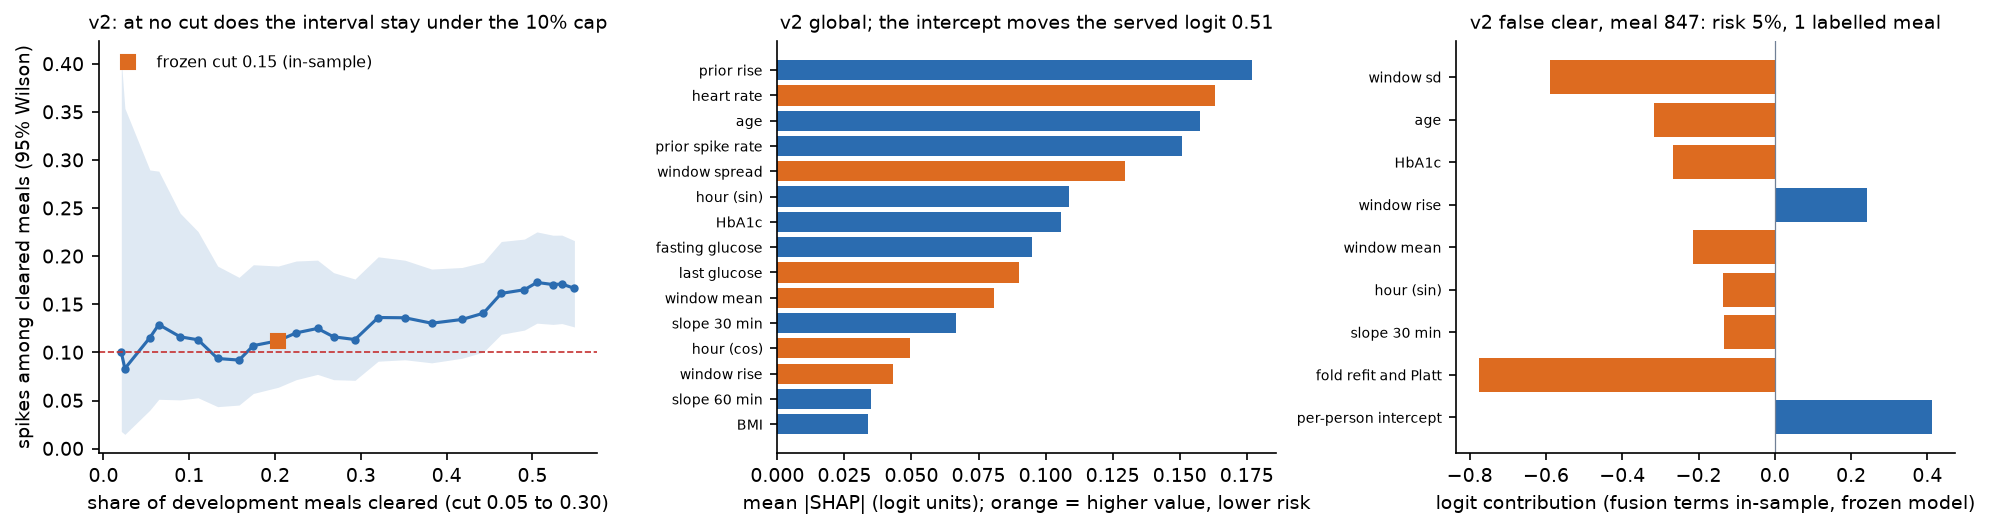
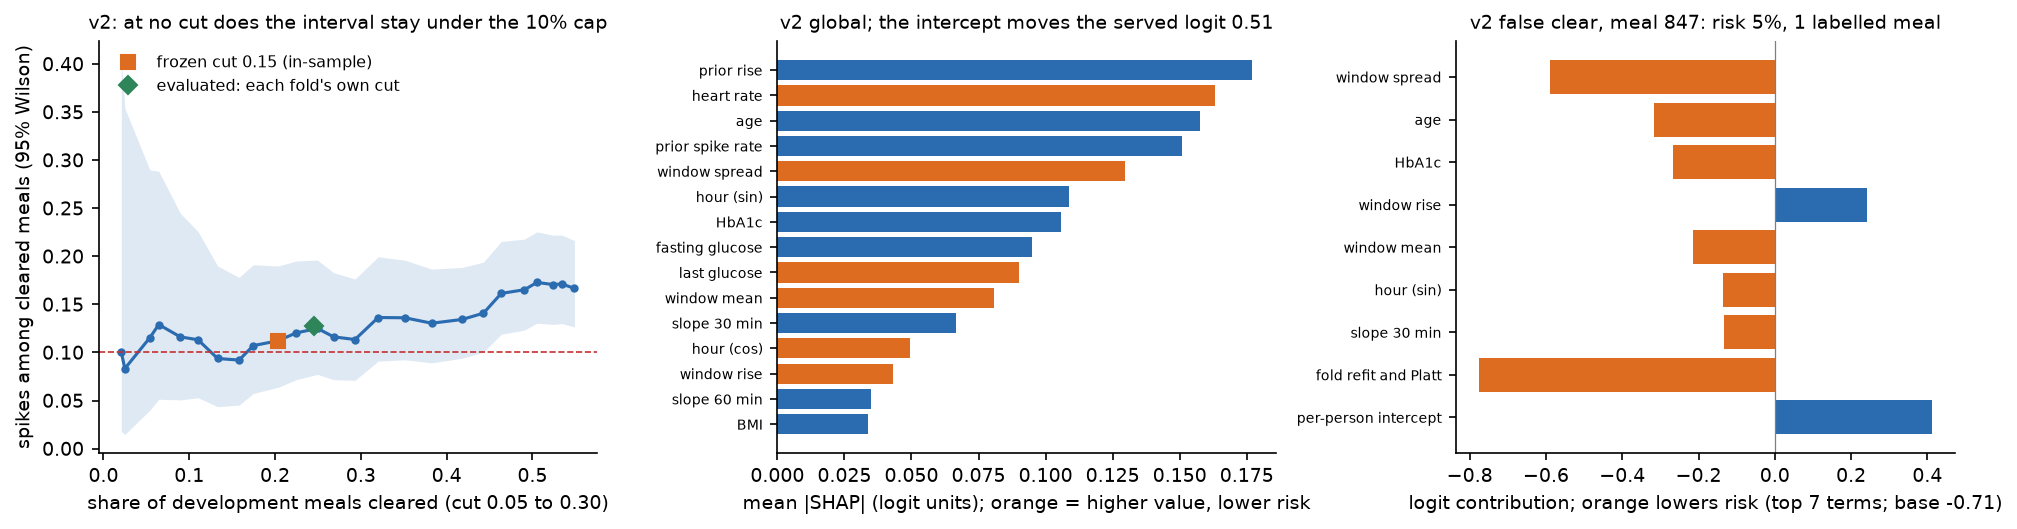
Twelfth pass: last-third misses reported, ECE against the floor, recommendation and heart-rate claims narrowed, figures renumbered
Claude-Session: https://claude.ai/code/session_01U1MwL7j11MLBZ4KUvxGUHV

diff --git a/src/glimpse/figures.py b/src/glimpse/figures.py
@@ -297,6 +297,9 @@ def f8_v2(plt) -> None:
     fb = r["frozen_band_in_sample"]
     axes[0].plot([fb["cleared"] / 481], [fb["missed_among_cleared"]], "s", color=ORANGE, ms=7,
                  label="frozen cut 0.15 (in-sample)")  # fmt: skip
+    ev = json.loads(Path("outputs/report_metrics/v2_metrics.json").read_text())["decisions"]
+    axes[0].plot([ev["share_low_risk"]], [ev["missed_among_cleared"]], "D", color=GREEN, ms=6,
+                 label="evaluated: each fold's own cut")  # fmt: skip
     axes[0].set_xlabel("share of development meals cleared (cut 0.05 to 0.30)")
     axes[0].set_ylabel("spikes among cleared meals (95% Wilson)")
     axes[0].set_title("v2: at no cut does the interval stay under the 10% cap", fontsize=9)
@@ -314,12 +317,13 @@ def f8_v2(plt) -> None:
                       fontsize=9)  # fmt: skip
     loc = sh["local"]
     terms = sorted(loc["terms"].items(), key=lambda kv: -abs(kv[1]))[:7]
-    labels = [k for k, _ in terms] + ["fold refit and Platt", "per-person intercept"]
+    labels = [k.replace("window sd", "window spread") for k, _ in terms] + ["fold refit and Platt",
+                                                                           "per-person intercept"]  # fmt: skip
     vs = [v for _, v in terms] + [loc["fold_platt_logit"] - loc["frozen_logit"], loc["intercept_shift"]]
     axes[2].barh(np.arange(len(vs))[::-1], vs, color=[BLUE if v > 0 else ORANGE for v in vs])
     axes[2].set_yticks(np.arange(len(vs))[::-1], labels, fontsize=6.8)
     axes[2].axvline(0, color=GREY, lw=0.6)
-    axes[2].set_xlabel("logit contribution (fusion terms in-sample, frozen model)")
+    axes[2].set_xlabel(f"logit contribution; orange lowers risk (top 7 terms; base {sh['base_logit']:.2f})")
     axes[2].set_title(f"v2 false clear, meal {loc['row']}: risk {loc['risk']:.0%}, {loc['n_history']} labelled meal",
                       fontsize=9)  # fmt: skip
     fig.tight_layout()

diff --git a/tests/test_report_numbers.py b/tests/test_report_numbers.py
@@ -452,7 +452,11 @@ def test_v2_cells_in_the_report():
     c = _load("outputs/v2_explain/v2_explain.json")["calibration"]
     lo, hi = c["observed_ci95_biased_upward"]
     assert abs(c["observed"] - v2["shipped"]["ece_equal_width_15"]) < 1e-12
-    assert t["ECE, registered 15 bins (target ≤ 0.05)"][2] == f"{c['observed']:.3f} ({lo:.3f}–{hi:.3f}): {c['verdict']}"
+    assert lo > c["observed"] and hi > 0.05 and c["verdict"] == "on track"  # the bootstrap is biased upward
+    assert t["ECE, registered 15 bins (target ≤ 0.05)"][2] == (
+        f"{c['observed']:.3f}, below a perfect model's median {c['perfectly_calibrated_median']:.3f}: {c['verdict']}"
+    )
+    assert c["share_of_perfectly_calibrated_draws_at_or_above_observed"] > 0.98  # "lower than 99% of draws"
     d = v2["decisions"]
     assert t["spikes among cleared meals (cap 10%)"][2] == (
         f"{_pc(d['missed_among_cleared'])} ({_iv(d['missed_ci']['ci95'], pct=True)})"
@@ -593,6 +597,11 @@ def test_v2_explain_cells():
     assert f"moves the served logit by {r['shap']['split']['mean_abs_intercept_shift']:.2f}" in text
     tp = r["temporal"]["last_third"]
     assert f"last third of meals {tp['auroc']:.3f} ({tp['ci95'][0]:.3f}–{tp['ci95'][1]:.3f})" in text
+    f2 = r["temporal"]["first_two_thirds"]
+    assert (
+        f"rise from {_pc(f2['missed_among_cleared'])} (7 of {f2['cleared']}) to {_pc(tp['missed_among_cleared'])} (8 of"
+        in text
+    )
     cv = r["carb_value"]
     assert t["the carb estimate's own value, 817 out-of-fold photos: MAE; carb range right"][0] == (
         f"{cv['mae_photo_g']:.1f} g against {cv['mae_median_g']:.1f} g for typing the training median; "

diff --git a/docs/final_report.md b/docs/final_report.md
@@ -10,8 +10,8 @@ the usefulness targets are not met. The photo failed its pre-registered gate, wh
 said the answer should rest on sensors and profile with the photo only as a carb aid. v2 is that product,
 pre-registered and built on 26 Nov, the day after v1's locked result was known, and now served: risk from
 15 sensor and profile inputs, with the photo as a separate carb estimate that never blocks an answer. On
-development v2 answers every meal with usable glucose data and its ECE point (0.029) meets the target,
-though the interval (0.03 to 0.09) cannot confirm it. It is not shown to be as accurate as v1 (paired
+development v2 answers every meal with usable glucose data and its ECE (0.029) meets the target, though at
+this size that cannot be told apart from noise; v1 remains the more accurate model. It is not shown to be as accurate as v1 (paired
 −0.017, −0.045 to +0.010) and lets more spikes through its clears (12.7%), worst for the intended users:
 6 of 30 clears for people with prediabetes spiked, against 1 of 25 in v1. In both, a per-person intercept
 learned from earlier meals carries most of the edge; it separates people well but ranks a person's own
@@ -21,8 +21,8 @@ meals worse. v2 has no clean test: the locked eight are spent on v1.
 |---|---|---|---|
 | AUROC (95% person-clustered) | 0.762 (0.682–0.829) | 0.645 (0.540–0.736) | 0.754 (0.673–0.815); 0.748 on v1's 460 |
 | meals answered with a risk | 460 | 150 | 481 |
-| ECE, registered 15 bins (target ≤ 0.05) | 0.052, at the noise floor | 0.061 | 0.029 (0.032–0.091): on track |
-| usefulness targets (protocol labels: met / on track / at risk) | 1 met, 3 on track | 1 met, 3 at risk | 1 met, 2 on track, 1 at risk (spikes among cleared) |
+| ECE, registered 15 bins (target ≤ 0.05) | 0.052, at the noise floor | 0.061 | 0.029, below a perfect model's median 0.051: on track |
+| usefulness targets (protocol labels: met / on track / at risk) | 1 met, 3 on track | 1 met, 3 not met (final test) | 1 met, 2 on track, 1 at risk (spikes among cleared) |
 | spikes among cleared meals (cap 10%) | 7.3% (2.9–14.2%) | 2 of 10 | 12.7% (5.9–22.6%) |
 | the same, people with prediabetes | 1 of 25 | not split | 6 of 30 |
 | the samples' path (no history, no priors), with rule R13 | – | – | 0 cleared; cost −5.3% |
@@ -45,7 +45,7 @@ with neither history nor priors there is no personal basis to clear a meal, so a
 samples without `history.csv` sees caution or can't judge, never low risk. Tooling: uv with Python 3.14
 (locked), strict Pydantic, Loguru, a `just` recipe for every number, 187 tests (all pass with the data and
 weights, one an expected failure; 171 run without them; logs in outputs/finalize/), W&B offline runs replayed from committed training histories, and a git history from 2 Nov in
-which every pre-registration precedes its run.
+which every registration commit precedes its results commit.
 
 ![Figure 1: the one scoring path, its refusal exits and the labelling loop](../outputs/figures/f1_system.png)
 
@@ -76,7 +76,7 @@ has eight inputs: age, BMI, HbA1c, fasting glucose, meal hour (sine and cosine) 
 each person's spike rate and mean rise over their first meals. Seven hand-made trend features summarise
 the 2-h CGM and heart-rate window. SensorCNN, the from-scratch sequence model, ties the trend features
 (+0.002, −0.016 to +0.022) and stays a baseline. Fusion is logistic regression, the capacity 23
-development people support; gradient boosting on the same inputs is no better (non-inferior, +0.016,
+development people support; gradient boosting on the same inputs is not shown better (+0.016,
 −0.024 to +0.062, fusion study without the intercept). In v2 the served risk uses two modalities, sensors
 and profile; the photo is a third, separate output, the carb estimate the user confirms.
 
@@ -125,7 +125,9 @@ One caveat: fold 1 holds the five people the intermediate evaluation scored, and
 designed after a diagnosis on them, so development carries selection pressure the locked eight do not.
 v2 adds more: it was chosen after v1's locked result, and its development number is optimistic in the same
 way v1's was (0.762 on development, 0.645 locked). Two checks: without fold 1 v2 scores 0.749; on each
-person's last third of meals 0.774 (0.681–0.841), against 0.740 on the first two thirds.
+person's last third of meals 0.774 (0.681–0.841), against 0.740 on the first two thirds. More history does
+not make clears safer: spikes among cleared meals rise from 9.6% (7 of 73) to 17.8% (8 of 45) in the last
+third, and only 3 of v2's 15 false clears are cold starts.
 
 Postprandial response is person-specific (Zeevi et al. 2015; Berry et al. 2020). The calibration fix is a
 per-fold Platt map plus a penalised per-person intercept fitted only on that person's earlier meals whose
@@ -165,22 +167,24 @@ the intercept's own: with it, gradient boosting comes within 0.013 of v1, and th
 v2. It works between people, not within them. Averaged per person, AUROC falls by about 0.08 in both
 products (19 of 22 people worse in v1, 20 of 22 in v2), because the offset drifts as each new label arrives. The system
 learns each person's base rate, 0.063 better than a plain running spike rate. Removing the CGM costs
-0.033 with an interval above zero (exploratory, post hoc); removing the profile costs 0.122 (Figure 4).
+0.033 with an interval above zero (exploratory, post hoc); removing the profile costs 0.122 (Figure 6).
 
 ![Figure 3: reliability in the registered binning, v1 development, v1 locked and v2 development (15 equal-width bins, meals per bin printed, hollow markers for bins under 5 meals, bars the 95% Wilson interval of each shipped bin)](../outputs/figures/f3_reliability.png)
 
 | calibration | v1 dev | v1 locked | v2 dev | without history: v1 dev / v1 locked / v2 dev (per-fold Platt) |
 |---|---|---|---|---|
-| ECE, registered 15 equal-width bins (target ≤ 0.05) | 0.052 | 0.061 | 0.029 (0.032–0.091) | 0.023 / 0.162 / 0.052 |
+| ECE, registered 15 equal-width bins (target ≤ 0.05) | 0.052 | 0.061 | 0.029 | 0.023 / 0.162 / 0.052 |
 | ECE a perfectly calibrated model shows at this size (median; 95th centile) | 0.052 | 0.094 | 0.051; 0.071 | – |
 | calibration-in-the-large (mean risk − spike rate) | −0.015 | −0.010 | −0.015 | +0.002 / −0.108 / −0.001 |
 
 *Floor: labels drawn as Bernoulli(risk), 2,000 draws; ECE intervals are person-bootstrap and biased upward. v2's equal-mass ECE is 0.076. report_metrics.json, v2_metrics.json, outputs/v2_explain/v2_explain.json (calibration).*
 
-At this sample size the ECE target cannot separate either product from a perfectly calibrated model: v2's
-0.029 sits below the median a perfect model would show, its interval reaches 0.091, and equal-mass bins
-give 0.076. By the protocol's rule (met only if the whole interval meets the target) v2 is on track, not
-met. Figure 3's v2 panel shows no bin outside its Wilson interval. Without history, v1's risk under-predicts
+At this sample size the ECE target cannot separate either product from a perfectly calibrated model. v2's
+0.029 is lower than 99% of draws from a perfect model of this size (median 0.051), an unusually smooth fit,
+likely because each fold's Platt map and the intercepts were fitted on overlapping development meals; its
+person-bootstrap interval (biased upward) runs 0.03 to 0.09, and equal-mass bins give 0.076. By the
+protocol's rule (met only if the whole interval meets the target) v2 is on track, not met. In Figure 3's
+v2 panel every bin's 95% Wilson interval contains its mean risk. Without history, v1's risk under-predicts
 the harder locked cohort by 11 points, the clearest calibration failure. Discrimination is even across
 glycaemic status; usefulness is not (table).
 
@@ -203,7 +207,7 @@ only near the declared prices.
 | cleared as low risk | ≥20% | 22.7% (13.2–34.0%) | 6.5% (0.6–15.9%) | 24.5% (13.5–37.5%) | 11.0% |
 | can't judge | ≤20% | 13.7% (8.7–19.2%) | 2.6% (0.6–5.0%) | 8.3% (2.5–15.2%) | 18.5% |
 | missed among cleared | ≤10% | 7.3% (2.9–14.2%) | 20% (2 of 10; exact 2.5–55.6%) | 12.7% (5.9–22.6%), 15 of 118 | 15.1% (8 of 53) |
-| verdict (met / on track / at risk) | – | 1 met, 3 on track | 1 met, 3 at risk | 1 met, 2 on track, 1 at risk | 3 of 4 at risk |
+| verdict (met / on track / at risk) | – | 1 met, 3 on track | 1 met, 3 not met (final test) | 1 met, 2 on track, 1 at risk | 3 of 4 at risk |
 
 *v1's served point (no history) clears 15.2% with 9.6% spiking on development and 21.9% on the locked eight (report_metrics.json served_operating_point). report_metrics.json, v2_metrics.json (decisions, served_no_history), outputs/locked_eval/locked_summary.json.*
 
@@ -219,16 +223,16 @@ R13 refers those meals instead: no misses, 21% referred, 5.3% more costly than a
 
 v2 is served on the strength of the gate's pre-written verdict and a registration that said it ships
 whatever the development result; there was no safety gate, and on the numbers it is the riskier product.
-No low-risk cut keeps the interval on its misses under 10% (Figure 8, left); the point dips under 10% only
+No low-risk cut keeps the interval on its misses under 10% (Figure 4, left); the point dips under 10% only
 when fewer than 16% of meals are cleared. Its 15 false clears (§5) sit on 8 people, 6 on people with
 prediabetes. A what-if that withholds clears for a prediabetic profile until 20 labelled meals (post hoc,
 not shipped) cuts their misses from 6 to 2 and their clears from 30 to 3, with the overall saving at
 10.4%; withholding them always gives 10.2% misses and a 12.1% saving. Either rule would need its own
 registration and a test before serving.
 
-![Figure 8: v2 on development: spikes among cleared meals as the low-risk cut moves, with the frozen cut in-sample; exact linear SHAP of the frozen v2 fusion; one false clear split into fusion terms, the fold refit and Platt, and the per-person intercept](../outputs/figures/f8_v2.png)
+![Figure 4: v2 on development: spikes among cleared meals as the low-risk cut moves, with the frozen cut in-sample; exact linear SHAP of the frozen v2 fusion; one false clear split into fusion terms, the fold refit and Platt, and the per-person intercept](../outputs/figures/f8_v2.png)
 
-![Figure 7: v1 coverage, misses and cost when abstaining on the meals closest to the low-risk cut (development at each fold's cut, locked at 0.15), descriptive](../outputs/figures/f7_coverage.png)
+![Figure 5: v1 coverage, misses and cost when abstaining on the meals closest to the low-risk cut (development at each fold's cut, locked at 0.15), descriptive](../outputs/figures/f7_coverage.png)
 
 | stress at the evaluated operating point (with history) | v2: AUROC, spikes among cleared | v2: caution → low risk | v1: AUROC | v1: caution → low risk |
 |---|---|---|---|---|
@@ -243,9 +247,9 @@ registration and a test before serving.
 | photo blur radius 2 / 6 / 10 | 0.754, unchanged: the photo is not a risk input | 0 | 0.776 / 0.775 / 0.766 (co-answered clean 0.774) | 0 / 3 / 6 |
 | photo brightness ×0.5 / 0.25 / 0.2 / 0.15 | unchanged | 0 | within 0.002 on the meals still answered: 460 / 453 / 418 / 228 (×0.1: 3 answered) | 1 / 1 / 0 / 0 |
 
-*Registered in docs/stress_quality.md and (heart rate, priors, history) docs/v2_explain.md before their runs; every development meal, clean and perturbed, history from the clean answers. v1's photo stress compares the frozen photo model with itself (in-sample photos). outputs/robustness/stress_quality.json and v2_input_stress.json; the 22 Nov three-level study (Figure 5) is in the appendix.*
+*Registered in docs/stress_quality.md and (heart rate, priors, history) docs/v2_explain.md before their runs; every development meal, clean and perturbed, history from the clean answers. v1's photo stress compares the frozen photo model with itself (in-sample photos). outputs/robustness/stress_quality.json and v2_input_stress.json; the 22 Nov three-level study (Figure A1) is in the appendix.*
 
-![Figure 4: effect sizes with 95% person-clustered intervals; removals against the fusion study's photo arm (0.719); green rows: the intercept (evaluation) and the CGM contrast](../outputs/figures/f4_effects.png)
+![Figure 6: effect sizes with 95% person-clustered intervals; removals against the fusion study's photo arm (0.719); green rows: the intercept (evaluation) and the CGM contrast](../outputs/figures/f4_effects.png)
 
 Quality holds until a rule refuses. CGM dropout up to 50% moves AUROC by at most 0.001 in either product,
 and at 70% only the meals left with too few recent readings are refused (20 in v2). Gaps change nothing up
@@ -253,8 +257,9 @@ to 18 minutes and refuse every meal from 20, the rule's threshold, so the curve 
 photo cannot move v2's risk. In v1, heavy blur lets 6 cautions become low risk and lifts the spike rate
 among clears from 8% to 11%, and darkness ends in refusals by the contrast rule. v2's own weak points are
 its personal inputs. A watch left off (heart rate missing) is the largest dangerous flip in any condition,
-17 cautions turned low risk, though not on average lower risk as we expected; the folder answer is flagged
-`hr_missing`. Wrong history labels hurt most: a quarter flipped costs 0.055 AUROC, more than cutting the
+17 cautions turned low risk, though not on average lower risk as we expected, and with misses among clears
+falling to 11.6% and the saving rising to 12.8%, so heart rate's value to v2 is unproven; the folder answer
+is flagged `hr_missing`. Wrong history labels hurt most: a quarter flipped costs 0.055 AUROC, more than cutting the
 history to three meals.
 
 | unfamiliar-photo check at the 0.614 cut | photos | median kNN distance | flagged |
@@ -307,18 +312,19 @@ Every class below was observed.
 Probe B was registered as an expected pass (a rising pre-meal trace raises risk on at least 90% of meals)
 and failed: risk rose on only 8%. The label is baseline-relative, so a meal eaten on a rising trace has a
 higher baseline and a smaller measured rise; our registration encoded naive physiology. Exact SHAP for the
-frozen v1 fusion (Figure 6) ranks prior rise first, then age, heart rate and prior spike rate. Attribution
+frozen v1 fusion (Figure 7) ranks prior rise first, then age, heart rate and prior spike rate. Attribution
 and ablation disagree for heart rate (−0.21 coefficient, +0.007 when removed): attribution measures
-in-sample use, ablation out-of-sample loss. In v2 (Figure 8) the same four lead, and the sign has a
+in-sample use, ablation out-of-sample loss. In v2 (Figure 4) the same four lead, and the sign has a
 reading: within a person, a higher heart rate than usual before a meal goes with fewer spikes (−0.51,
 −0.88 to −0.25, person fixed effects), while between people mean heart rate and spike rate are unrelated
-(Spearman 0.00), so it is not a fitness confound; recent activity is the likely cause. The per-person
+(Spearman 0.00), so fitness is an unlikely explanation; the cause is untested (recent activity is one
+candidate). The per-person
 intercept moves the served logit by 0.51 on average, against 0.64 for the whole fusion. Probes A and C move one input at a time through a linear
 fusion, so their direction is guaranteed; what they show is size. The most extreme photo swap leaves 68.5%
-of v1's decisions unchanged, and moving any one profile input from its 10th to 90th percentile changes
+of v1's decisions unchanged, and moving any one of HbA1c, fasting glucose or the two priors from its 10th to 90th percentile changes
 11–17% of decisions.
 
-![Figure 6: exact linear SHAP for the frozen v1 fusion, in-sample; the local panel is row 847, a confident false clear, raw fusion risk](../outputs/figures/f6_shap.png)
+![Figure 7: exact linear SHAP for the frozen v1 fusion, in-sample; the local panel is row 847, a confident false clear, raw fusion risk](../outputs/figures/f6_shap.png)
 
 The errors fall on different people. A false clear, the costliest error, tells someone a spiking meal is
 safe; 7 of v1's 8 development false clears fell on healthy people, while people with prediabetes, the
@@ -347,7 +353,7 @@ under the final code with the pinned weights and data; every v1 decision matched
 so. The author set the goals and approved each pre-registration, freeze and verdict up to the tag. After
 it, cold grades by AI agents led to the dated round in docs/changelog.md, including v2, which she chose
 on 26 Nov knowing the locked result; the assistant wrote that round's registrations under her
-instruction, and the changelog lists each one with her sign-off.
+instruction, and the changelog lists each one; her dated sign-off on them is the changelog's last entry.
 No v1 artifact or locked number changed.
 
 ## 7. Limitations and conclusion
@@ -356,10 +362,10 @@ data. Forty-five people from one study, repeated standardised meals, no local cu
 only train, so no claim is made for them. v2 is the product the pre-registration points to and answers
 more meals; v1 is more accurate on development by a margin the data cannot confirm, misses fewer spikes,
 and is the only one with a clean test, which failed the usefulness targets. Our recommendation for any
-use: let v2 flag and refer from the first meal, but give a low-risk answer only once a person has
-history, and for people with prediabetes only after a rule like §4's what-if has been registered and
-tested. Heart rate earns its place by its within-person sign, not its ablation; a next version should
-test it with more people. This is an advisory prototype with no clinical validation,
+use: let v2 flag and refer, and withhold low-risk answers for people with prediabetes until a rule like
+§4's what-if has been registered and tested on new people; history alone does not make clears safer (§3).
+The served configuration does not do this: it is the frozen v2 as registered. Heart rate has a consistent
+within-person sign but no proven value; a next version should test it with more people. This is an advisory prototype with no clinical validation,
 end-user test or regulatory review, built so that a clinical study could evaluate it.
 
 | Glossary | meaning |

diff --git a/README.md b/README.md
@@ -94,7 +94,7 @@ only, and they carry disclosed selection pressure (fold 1 was scored at the inte
 after the locked result). "v2" in `outputs/evaluation_v2/` and "partition v2" name the split, not the product:
 that folder is v1; product v2 lives in `outputs/evaluation_sensor_first/`.
 
-| Risk model | **locked test (8 people, 153 meals)** | development (23 people; v1 460, v2 481 meals) |
+| Risk model | **locked test (8 people, 153 meals; 150 with a risk)** | development (23 people; v1 460, v2 481 meals) |
 |---|---|---|
 | v1 raw fusion | 0.611 (0.510–0.743) | 0.726 (0.659–0.797) |
 | **v1 + per-person calibration (locked-tested)** | **0.645 (0.540–0.736)** | 0.762 (0.682–0.829) |
@@ -113,7 +113,7 @@ that folder is v1; product v2 lives in `outputs/evaluation_sensor_first/`.
   estimate as 4 of its 19 inputs; v2, built on 26 Nov to the gate's pre-written verdict, uses it only as a carb estimate.
 - v2 is not shown non-inferior to v1 (−0.017, −0.045 to +0.010) and lets 12.7% of its clears spike (6 of 30 for people
   with prediabetes, against 1 of 25 in v1).
-- Usefulness targets hold at the point on development (23% cleared, 14% cost saving, 7.3% missed vs a 10% cap) and FAIL on
+- v1: usefulness targets hold at the point on development (23% cleared, 14% cost saving, 7.3% missed vs a 10% cap) and FAIL on
   the locked test (10 of 153 cleared, 2 spiked, cost reduction −5.7%), reported unadjusted, per the pre-registration.
 - The 8 locked people were scored exactly once, on 25 Nov, from the frozen artifacts (`just evaluate-locked` refuses a rerun).
 - Monitoring: the photo-drift rule fires on the drifted (synthetic) week of a simulated stream, but real phone
@@ -167,11 +167,11 @@ version of this table is kept at `docs/archive/readme_promised_intermediate.md`.
 | §3 results table, fold cut-offs, Figures 2-3 | `just evaluate` (`evaluate-locked` once) | `outputs/evaluation_v2/`, `outputs/locked_eval/`, `outputs/report_metrics/` |
 | §4 cost sweep, usefulness targets | `just evaluate` | `outputs/evaluation_v2/dev_summary.json`, `outputs/report_metrics/` |
 | §1 end-to-end timing, int8 | `just end-to-end-timing`, `just photo-probes` | `outputs/efficiency/end_to_end.json`, `int8.json` |
-| §3-§5 v2 calibration, taxonomy, SHAP, Figures 3 and 8 | `just v2-explain` (inside `just evaluate`) | `outputs/v2_explain/` |
+| §3-§5 v2 calibration, taxonomy, SHAP, Figures 3 and 4 | `just v2-explain` (inside `just evaluate`) | `outputs/v2_explain/` |
 | §4 stress table | `just stress-quality`, `just v2-input-stress` | `outputs/robustness/stress_quality.json`, `v2_input_stress.json` |
-| appendix stress levels, Figure 5 | `just robustness-levels`, `just timing`, `just promised` | `outputs/robustness/`, `outputs/promised/` |
+| appendix stress levels, Figure A1 | `just robustness-levels`, `just timing`, `just promised` | `outputs/robustness/`, `outputs/promised/` |
 | §4 monitoring | `just monitoring`, `just monitoring-replay` | `outputs/monitoring/` |
-| §5 taxonomy, probes, Figure 6 | `just predict-folder`, `just stress`, `just probes`, `just ood`, `just figures` | `outputs/folder_run/`, `outputs/stress_run/`, `outputs/probes/`, `outputs/ood/`, `outputs/figures/` |
+| §5 taxonomy, probes, Figure 7 | `just predict-folder`, `just stress`, `just probes`, `just ood`, `just figures` | `outputs/folder_run/`, `outputs/stress_run/`, `outputs/probes/`, `outputs/ood/`, `outputs/figures/` |
 
 `tests/test_report_numbers.py` checks the report's headline numbers against these files on every commit.
 

diff --git a/docs/report_appendix.md b/docs/report_appendix.md
@@ -188,9 +188,9 @@ v1, the photo-fusion model frozen on 6 Nov and measured once on the locked eight
 | photo blur r=2/6/10 (same decision / low risk↔caution) | 98% / 0.7% | 94% / 0.9% | 89% / 1.7% |
 | photo brightness ×0.5/×0.25/×0.1 (same decision / new refusals) | 98% / 1% | 96% / 2% | 10% / 90% |
 
-*"Same decision" includes meals already refused before the perturbation; degraded photos also turn up to 2.6% of earlier refusals into answers (`recovered_answers`, blur r=10); low risk↔caution flips are `dangerous_flips` in the evidence files. Pre-registered 22 Nov; outputs/robustness/levels.json, the run Figure 5 draws with timing.json and promised.json (outputs/robustness/robustness.json is the earlier 2 Nov single-level run under pre-freeze pipelines, kept for the record).*
+*"Same decision" includes meals already refused before the perturbation; degraded photos also turn up to 2.6% of earlier refusals into answers (`recovered_answers`, blur r=10); low risk↔caution flips are `dangerous_flips` in the evidence files. Pre-registered 22 Nov; outputs/robustness/levels.json, the run Figure A1 draws with timing.json and promised.json (outputs/robustness/robustness.json is the earlier 2 Nov single-level run under pre-freeze pipelines, kept for the record).*
 
-![Figure 5: the 22 Nov registered perturbations through v1's per-fold pipelines without history; "unchanged" includes meals already refused when clean, and the red share counts low risk and caution flips in both directions, so it differs from the report's stress table (with history, caution to low risk only)](../outputs/figures/f5_robustness.png)
+![Figure A1: the 22 Nov registered perturbations through v1's per-fold pipelines without history; "unchanged" includes meals already refused when clean, and the red share counts low risk and caution flips in both directions, so it differs from the report's stress table (with history, caution to low risk only)](../outputs/figures/f5_robustness.png)
 
 | unfamiliar-photo check at the 0.614 cut | photos | median kNN distance | refused by it |
 |---|---|---|---|

diff --git a/docs/changelog.md b/docs/changelog.md
@@ -226,5 +226,15 @@ All three strict graders and the holistic one found the report explaining and ch
 | `just evaluate` adds the v2 explanation; `evaluate-all` adds v2 input stress, end-to-end timing and the 22 Nov levels; `just end-to-end-timing`; `verify-outputs` compares numbers to 1e-9 instead of bytes; `evaluation_v2/dev_answers.csv` regenerated under the final reason wording (decisions unchanged) | 1e-16 noise failed the byte check; recipes missing (2 of 3) | Justfile; src/glimpse/verify.py |
 | README, samples README, instructor manifest, rule ledger and model card brought up to v2 | stale statements (3 of 3) | – |
 
+## 26 Nov 2026, twelfth pass (round-12 grades: 78.0, 77.75, 79.2; holistic 86)
+
+| Change | Why | Evidence |
+|---|---|---|
+| The last-third check now reports misses among clears (9.6% to 17.8%), and the §7 recommendation no longer claims history makes clears safer | selective reporting (3 of 3) | v2_explain.json temporal |
+| ECE shown against the perfect-model floor (0.029 is lower than 99% of draws, median 0.051) instead of an interval that excluded its point; the Wilson sentence corrected | the point lay outside its interval (4 of 4) | v2_explain.json calibration |
+| Heart-rate removal's lower misses and higher saving reported; "recent activity" reworded as an untested candidate; probe C's scope named; GB wording; registration-order claim narrowed to commit order; locked verdict "not met"; v1 named the more accurate model in the opening | overstatements (2 of 3) | docs/final_report.md |
+| Figures renumbered in reading order (the 22 Nov levels figure is A1 in the appendix); Figure 4 marks the evaluated point and uses one feature name | figure order and labels (3 of 3) | outputs/figures/ |
+| The sentence on the author's sign-off now points to the entry below, which she writes | the report claimed a sign-off that was not yet there (3 of 3) | – |
+
 Author sign-off on the tenth and eleventh passes (v2, R13 and every registration since the tag): to be
 added here by the author, dated, in her words.

diff --git a/docs/model_card.md b/docs/model_card.md
@@ -39,7 +39,7 @@ standardised meals. 1,221 photos at most touched by fine-tuning (cap 10,000).
 |---|---|---|---|
 | AUROC (95% person-clustered) | 0.754 (0.673–0.815) | 0.762 (0.682–0.829) | 0.645 (0.540–0.736) |
 | meals answered with a risk | 481 | 460 | 150 |
-| ECE, 15 equal-width bins (target ≤ 0.05) | 0.029 (0.032–0.091), on track | 0.052, at the noise floor | 0.061 |
+| ECE, 15 equal-width bins (target ≤ 0.05) | 0.029, below a perfect model's median 0.051: on track | 0.052, at the noise floor | 0.061 |
 | low risk / caution / can't judge | 25% / 67% / 8% | 23% / 64% / 14% | 7% / 91% / 3% |
 | spikes among meals cleared (cap 10%) | 12.7%; prediabetes 6 of 30 | 7.3%; prediabetes 1 of 25 | 2 of 10 |
 | cost reduction vs always caution (target ≥ 10%) | 10.2% | 14.4% | −5.7% |
